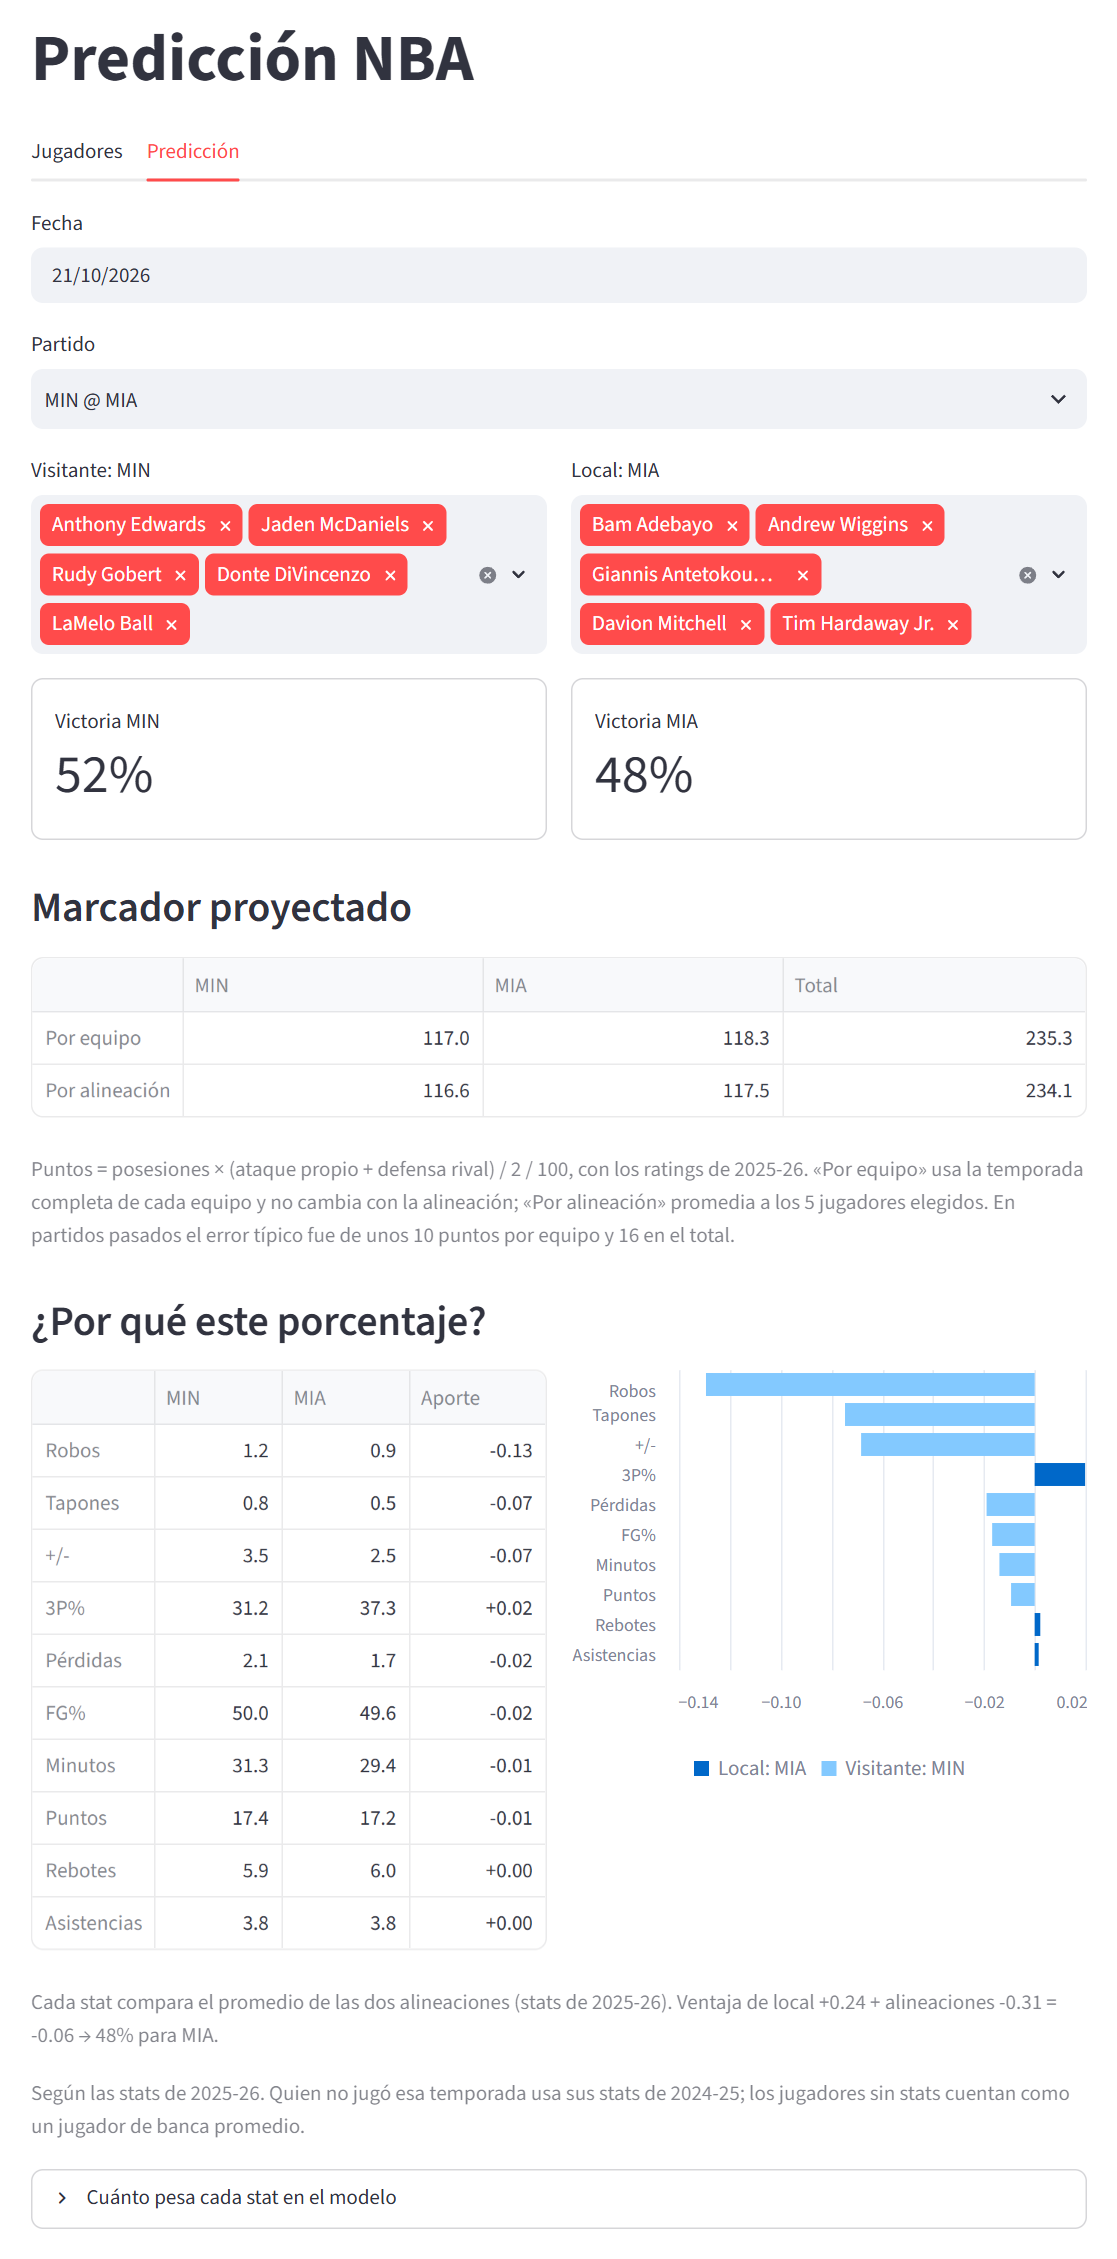
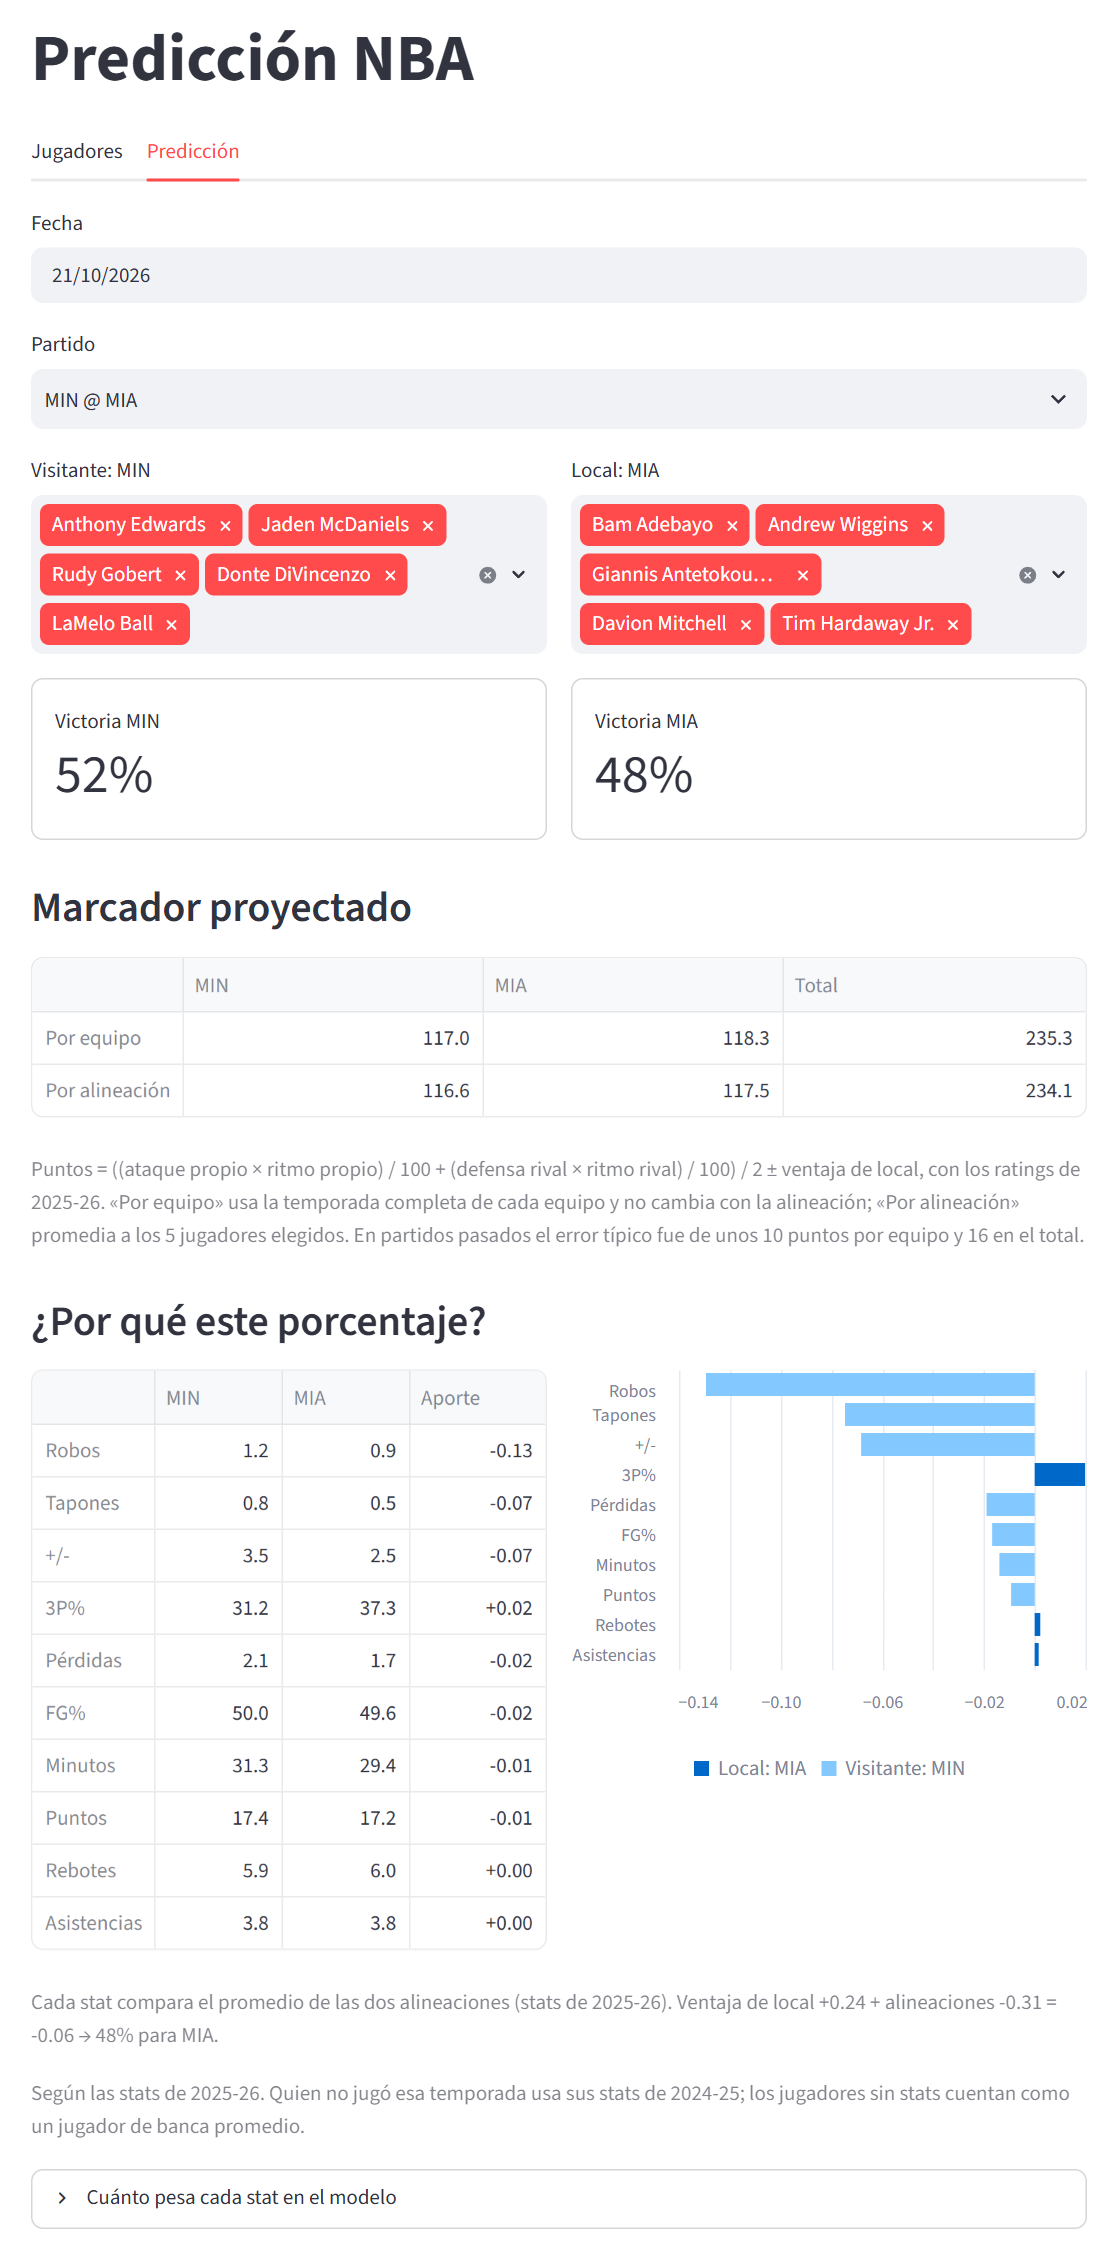
Usar la fórmula de puntos acordada: promedio de ataque propio y defensa rival
Puntos de A = ((ataque A × ritmo A) / 100 + (defensa B × ritmo B) / 100) / 2
± ventaja de local. Equivale al promedio entre lo que A suele anotar por
partido y lo que B suele recibir. El error contra los marcadores reales no
cambia (10.0 puntos por equipo, 15.7 en el total).

Changed region(s): [[0.0304, 0.4958, 0.974, 0.5578]]

diff --git a/points.py b/points.py
@@ -1,9 +1,9 @@
 """Proyecta los puntos de cada equipo y el total del partido con efectividad × posesiones.
 
-Puntos de A contra B = posesiones × (rating ofensivo de A + rating defensivo de B) / 2 / 100,
-con posesiones = promedio del ritmo (PACE) de ambos. Al local se le suma la mitad del margen
-medio de los locales y al visitante se le resta. Se calcula de dos formas, siempre con los
-ratings de la temporada anterior:
+Puntos de A contra B = ((ataque A × ritmo A) / 100 + (defensa B × ritmo B) / 100) / 2,
+es decir, el promedio entre lo que A suele anotar por partido y lo que B suele recibir.
+Al local se le suma la mitad del margen medio de los locales y al visitante se le resta.
+Se calcula de dos formas, siempre con los ratings de la temporada anterior:
 - por equipo: ratings del equipo completo;
 - por alineación: promedio de los ratings en cancha de los 5 jugadores.
 """
@@ -47,10 +47,10 @@ def lineup_ratings(player_ids, players, bench):
 
 def project(home, away, home_edge):
     """Puntos proyectados de local y visitante a partir de sus ratings."""
-    poss = (home["PACE"] + away["PACE"]) / 2
-    home_pts = poss * (home["OFF_RATING"] + away["DEF_RATING"]) / 200 + home_edge / 2
-    away_pts = poss * (away["OFF_RATING"] + home["DEF_RATING"]) / 200 - home_edge / 2
-    return home_pts, away_pts
+    def points(attack, defense):
+        return (attack["OFF_RATING"] * attack["PACE"] / 100 + defense["DEF_RATING"] * defense["PACE"] / 100) / 2
+
+    return points(home, away) + home_edge / 2, points(away, home) - home_edge / 2
 
 
 def season_projections(season):

diff --git a/app.py b/app.py
@@ -202,8 +202,9 @@ with prediction_tab:
         )
         st.dataframe(score, column_config={c: st.column_config.NumberColumn(format="%.1f") for c in score.columns})
         st.caption(
-            "Puntos = posesiones × (ataque propio + defensa rival) / 2 / 100, con los ratings de "
-            f"{prev_season(CURRENT_SEASON)}. «Por equipo» usa la temporada completa de cada equipo y no cambia con la "
+            "Puntos = ((ataque propio × ritmo propio) / 100 + (defensa rival × ritmo rival) / 100) / 2 ± ventaja de "
+            f"local, con los ratings de {prev_season(CURRENT_SEASON)}. "
+            "«Por equipo» usa la temporada completa de cada equipo y no cambia con la "
             "alineación; «Por alineación» promedia a los 5 jugadores elegidos. En partidos pasados el error típico "
             "fue de unos 10 puntos por equipo y 16 en el total."
         )

diff --git a/README.md b/README.md
@@ -76,10 +76,12 @@ Que las pérdidas sumen a favor no es un error: las cometen más los jugadores q
 Usa la efectividad ofensiva (puntos anotados por 100 posesiones), la defensiva (puntos recibidos por 100 posesiones) y el ritmo (posesiones por partido):
 
 ```
-posesiones      = promedio del ritmo de ambos equipos
-puntos de A     = posesiones × (ofensiva de A + defensiva de B) / 2 / 100  ± ventaja de local / 2
-total           = puntos de A + puntos de B
+puntos de A = ((ataque A × ritmo A) / 100 + (defensa B × ritmo B) / 100) / 2  ± ventaja de local / 2
+total       = puntos de A + puntos de B
 ```
+
+Es decir, el promedio entre lo que A suele anotar por partido y lo que B suele recibir. Por ejemplo, MIL @ WAS con los ratings de 2025-26:
+MIL = (112.2 × 98.3 / 100 + 121.5 × 102.5 / 100) / 2 = 117.4 puntos, antes de la ventaja de local.
 
 Se calcula de dos formas, siempre con los ratings de la temporada anterior:
 
